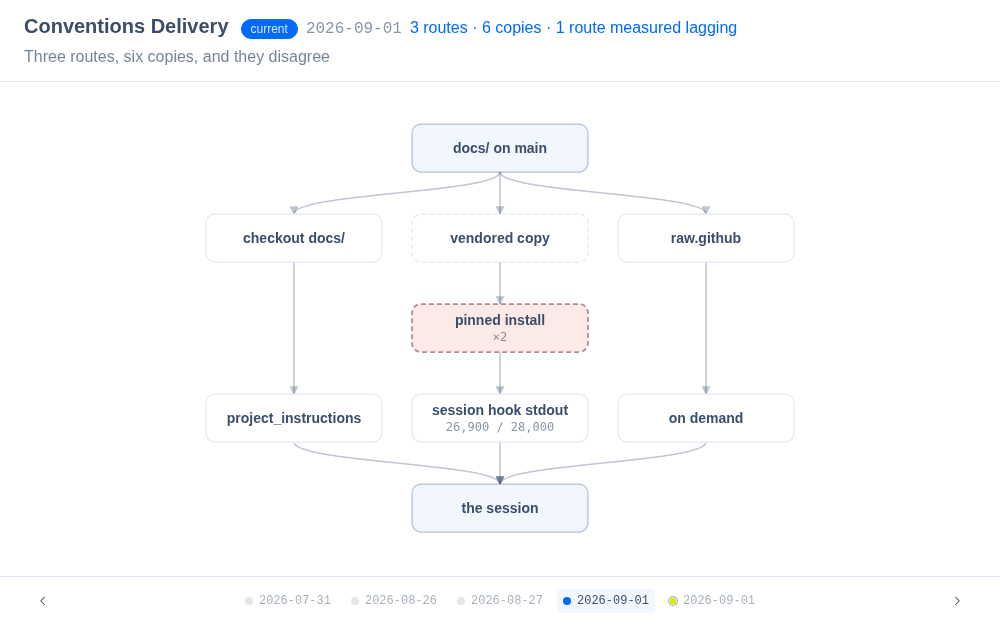
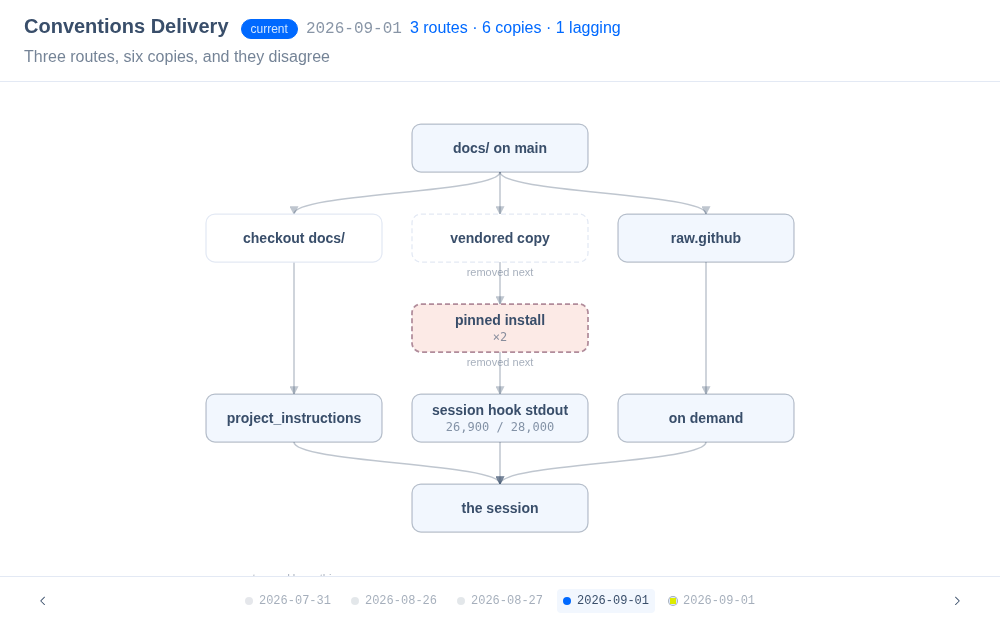
Make the copy count checkable against the picture
Three clarifications, each removing a place the page could mislead.

The counts line is derived from the stores and routes rather than authored.
Three of the five snapshots already agreed with the derivation; the two that
did not were carrying a different fact, which moved to evidence where it
belongs. An authored count is a copy of what the data says, and the copy is
the half that drifts.

A grey box is not a stored copy and a white one is, which puts the network
node, the carriers, the origin and the session on the right side of one line
and makes the header's figure countable on the diagram.

That immediately showed the header claiming six copies over a diagram drawing
three: the other three sit on no route, so nothing drew them. They now sit in
a detached band, which says the thing that was invisible. Half of today's
copies are read by nothing, and the clone's docs/ is one of them, waiting to
become the only machine copy anything reads.

Also: a dashed outline meant nothing to a reader who had not hovered, so the
mark carries its own label.

Considered and rejected: marking nodes new since the previous snapshot,
derived by set difference. The historical snapshots are reconstructed and
deliberately partial, so the difference would have asserted that three stores
appeared on 2026-09-01 when they had merely gone unlisted before.

Claude-Session: https://claude.ai/code/session_01KQ34wEQV5WUvfZhydaeP6f

diff --git a/pages/delivery.html b/pages/delivery.html
@@ -84,7 +84,7 @@
         <span class="flex items-baseline gap-2 flex-wrap">
           <span class="badge badge-sm" :class="stateClass(snap.state)" x-text="snap.state"></span>
           <code class="text-base text-base-content/60" x-text="snap.date"></code>
-          <span class="text-base text-primary" x-text="snap.headline"></span>
+          <span class="text-base text-primary" x-text="counts"></span>
         </span>
       </template>
     </div>
@@ -177,6 +177,17 @@ function delivery() {
     // Resolved once per snapshot. Chains carry node OBJECTS, because an x-for
     // calling a per-item lookup rendered a mix of two snapshots' labels after
     // the index moved: the DOM was reused and the text did not follow.
+    // Derived, never authored. An authored counts line is a copy of what the
+    // stores and routes already say, and the copy is the half that drifts.
+    get counts() {
+      const s = this.snap;
+      if (!s) return '';
+      const copies = (s.stores || []).filter(n => n.copy).length;
+      const lag = (s.routes || []).filter(r => r.state === 'lagging').length;
+      return `${(s.routes || []).length} routes \u00b7 ${copies} ${copies === 1 ? 'copy' : 'copies'}` +
+             `\u00b7 ${lag} lagging`.replace('\u00b7', ' \u00b7 ');
+    },
+
     get lanes() {
       const s = this.snap;
       if (!s) return [];
@@ -202,10 +213,13 @@ function delivery() {
       const lanes = this.lanes;
       if (!host || !this.snap) return;
 
+      const onRoute = new Set(lanes.flatMap(l => l.chain || []));
+      const unread = (this.snap.stores || []).filter(n => n.copy && !onRoute.has(n.id));
       const deep = Math.max(1, ...lanes.map(l => l.nodes.length));
       const rows = deep + 3;
       const W = PAD * 2 + lanes.length * NW + (lanes.length - 1) * LANEGAP;
-      const H = PAD * 2 + rows * NH + (rows - 1) * VGAP + 26;
+      const H = PAD * 2 + rows * NH + (rows - 1) * VGAP + 26
+              + (unread.length ? NH + VGAP + 18 : 0);
       const rowY = r => PAD + r * (NH + VGAP);
       const laneX = k => PAD + k * (NW + LANEGAP);
       const originX = W / 2 - NW / 2, originY = rowY(0);
@@ -237,11 +251,12 @@ function delivery() {
 
       const box = (x, y, n, opts = {}) => {
         const pinned = n.freshness === 'pinned';
+        const stored = n.copy === true;
         const w = opts.w || NW, mid = x + w / 2;
         const sub = opts.sub || (n.count ? '\u00d7' + n.count : '');
         const g = svgEl('g', { 'data-node': n.id, tabindex: 0 });
         g.appendChild(svgEl('rect', {
-          class: 'nodebox ' + (pinned ? 'n-pinned' : opts.strong ? 'n-strong' : 'n-box'),
+          class: 'nodebox ' + (pinned ? 'n-pinned' : stored ? 'n-box' : 'n-strong'),
           x, y, width: w, height: NH, rx: 9,
           'stroke-width': pinned ? 1.75 : 1.25,
           'stroke-dasharray': n.goes ? '5 3' : null,
@@ -250,6 +265,8 @@ function delivery() {
           'text-anchor': 'middle', 'font-size': 14, 'font-weight': 600 }, n.label));
         if (sub) g.appendChild(svgEl('text', { class: 'n-sub', x: mid, y: y + 37,
           'text-anchor': 'middle', 'font-size': 12, 'font-family': 'ui-monospace,monospace' }, sub));
+        if (n.goes) g.appendChild(svgEl('text', { class: 'n-faint', x: mid, y: y + NH + 14,
+          'text-anchor': 'middle', 'font-size': 11 }, 'removed next'));
         gNodes.appendChild(g);
       };
 
@@ -280,7 +297,7 @@ function delivery() {
       });
 
       const origin = lanes[0]?.origin;
-      if (origin) box(originX, originY, origin, { strong: true });
+      if (origin) box(originX, originY, origin);
 
       lanes.forEach((l, k) => {
         let px = W / 2, py = originY + NH;
@@ -306,8 +323,15 @@ function delivery() {
 
       spans.forEach(d => box(d.x, d.y, d.n, { w: d.w, sub: d.n.sub }));
       const sess = this.data?.session || { id: 'session', label: 'the session' };
-      box(originX, rowY(sessionRow), { ...sess, id: 'session' }, { strong: true });
+      box(originX, rowY(sessionRow), { ...sess, id: 'session' });
 
+      if (unread.length) {
+        const uy = rowY(sessionRow) + NH + VGAP + 18;
+        gNodes.appendChild(svgEl('text', { class: 'n-faint', x: PAD, y: uy - 10,
+          'font-size': 11 }, 'on no route, read by nothing'));
+        const span = unread.length * NW + (unread.length - 1) * LANEGAP;
+        unread.forEach((n, j) => box(W / 2 - span / 2 + j * (NW + LANEGAP), uy, n));
+      }
       svg.append(gEdges, gNodes);
       host.replaceChildren(svg);
     },
